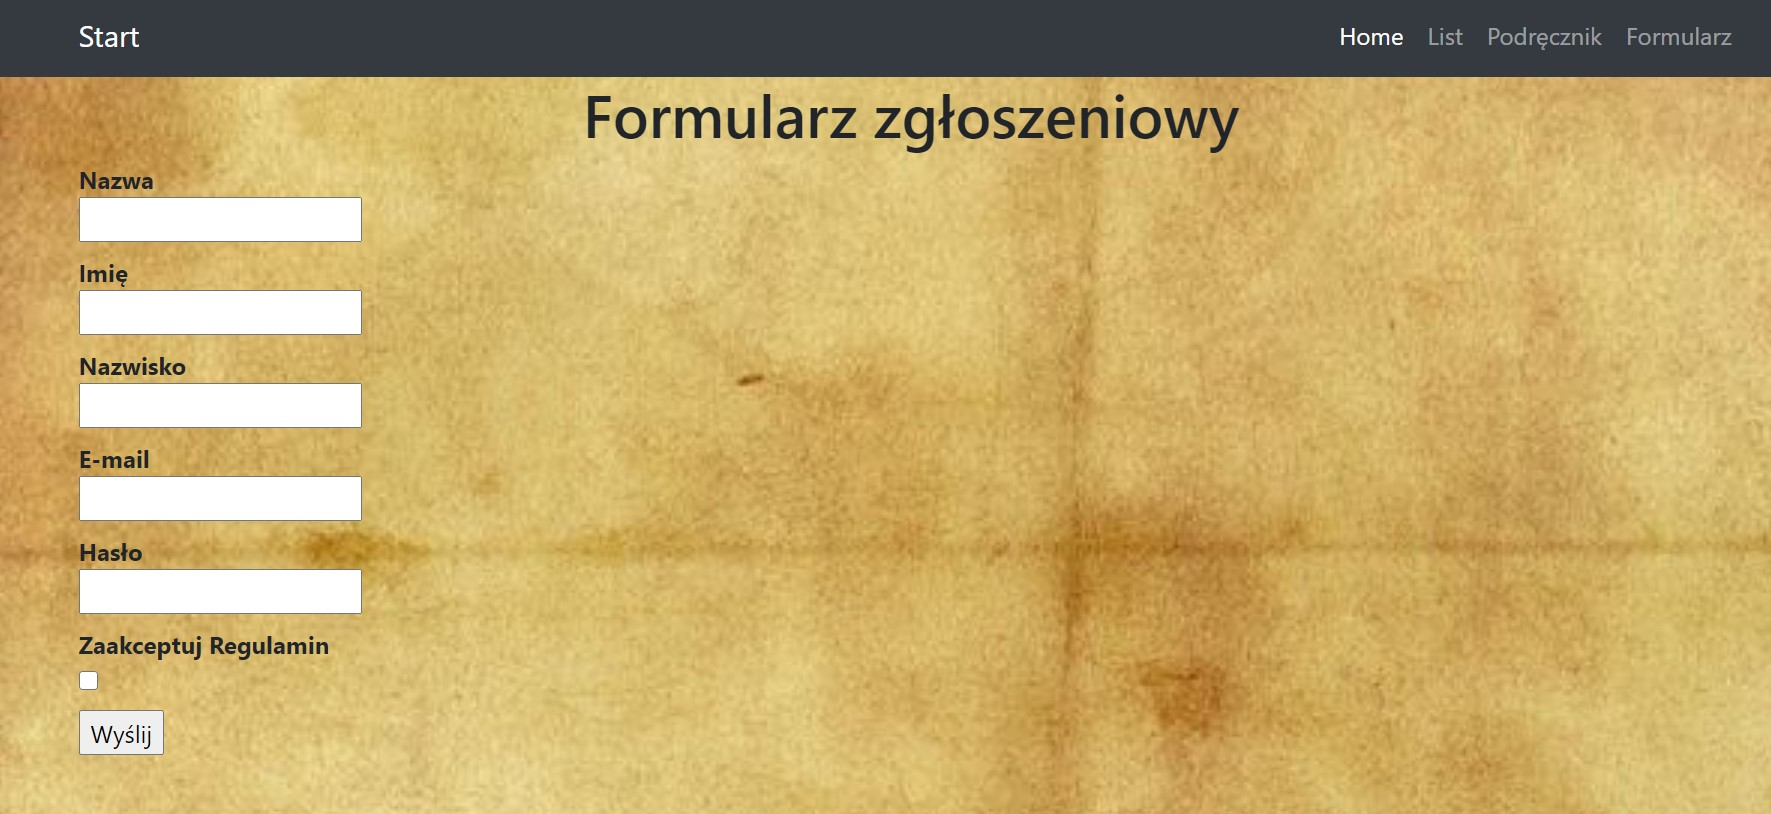
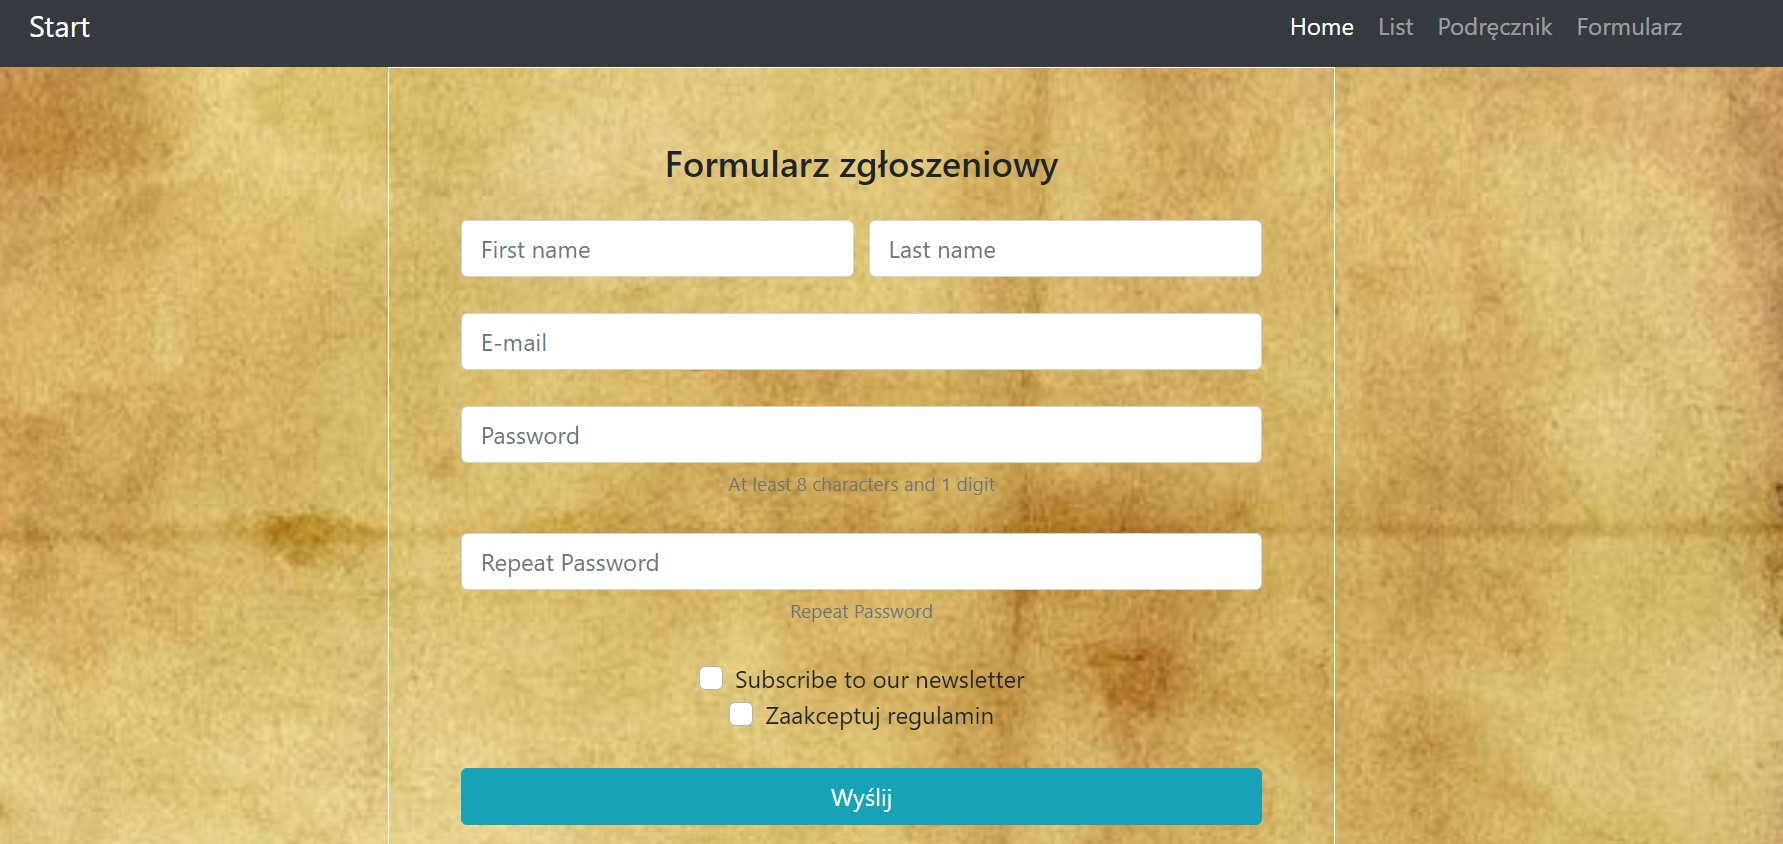
Upgrade Formularz.html
Stworzenie formularza z szablonu Bootstrap'a

diff --git a/Lab1/formularz.html b/Lab1/formularz.html
@@ -46,29 +46,65 @@
   </nav>
 
   <!-- Page Content -->
-  <form onsubmit="if (sprawdz(this)) return true; return false">
-    <div class="container">
-      <h1 id="Tytul">Formularz zgłoszeniowy</h1>
-      <dl>
-        <dt>Nazwa</dt>
-        <dd><input type="text" name="nazwa"></dd>
-        <dt>Imię</dt>
-        <dd><input type="text" name="imie"></dd>
-        <dt>Nazwisko</dt>
-        <dd><input type="text" name="nazwisko"></dd>
-        <dt>E-mail</dt>
-        <dd><input type="text" name="email"></dd>
-        <dt>Hasło</dt>
-        <dd><input type="password" name="haslo"></dd>
-        <dt>Zaakceptuj Regulamin</dt>
-        <dd><input type="checkbox" name="regulamin" id="regulamin"></dd>
-        <input type="submit" value="Wyślij">
-      </dl>
-    </div>
-  </form>
+  <!-- Default form register -->
+  <div id="formula">
+    <form onsubmit="if (sprawdz(this)) return true; return false" class="text-center border border-light p-5" action="#!">
+
+        <p class="h4 mb-4">Formularz zgłoszeniowy</p>
+
+        <div class="form-row mb-4">
+            <div class="col">
+                <!-- First name -->
+                <input type="text" id="defaultRegisterFormFirstName" class="form-control" placeholder="First name">
+            </div>
+            <div class="col">
+                <!-- Last name -->
+                <input type="text" id="defaultRegisterFormLastName" class="form-control" placeholder="Last name">
+            </div>
+        </div>
+
+        <!-- E-mail -->
+        <input type="email" id="defaultRegisterFormEmail" class="form-control mb-4" placeholder="E-mail">
+
+        <!-- Password -->
+        <input type="password" id="defaultRegisterFormPassword" class="form-control" placeholder="Password" aria-describedby="defaultRegisterFormPasswordHelpBlock">
+        <small id="defaultRegisterFormPasswordHelpBlock" class="form-text text-muted mb-4">
+            At least 8 characters and 1 digit
+        </small>
+
+        <!-- Password repeat -->
+        <input type="password" id="defaultRegisterFormRepeatPassword" class="form-control" placeholder="Repeat Password" aria-describedby="defaultRegisterFormPasswordHelpBlock">
+        <small id="defaultRegisterFormPasswordHelpBlock" class="form-text text-muted mb-4">
+            Repeat Password
+        </small>
+
+        <!-- Newsletter -->
+        <div class="custom-control custom-checkbox move-left">
+            <input type="checkbox" class="custom-control-input" id="defaultRegisterFormNewsletter">
+            <label class="custom-control-label" for="defaultRegisterFormNewsletter">Subscribe to our newsletter</label>
+        </div>
+
+        <div></div>
+
+        <!-- Terms -->
+        <div class="custom-control custom-checkbox">
+          <input type="checkbox" class="custom-control-input" id="regulamin">
+          <label class="custom-control-label" for="regulamin">Zaakceptuj regulamin</label>
+        </div>
+
+        <!-- Sign up button -->
+        <button class="btn btn-info my-4 btn-block" type="submit">Wyślij</button>
+
+        <hr>
+
+    </form>
+</div>
+<!-- Default form register -->
+
   <!-- Bootstrap core JavaScript -->
   <script src="vendor/jquery/jquery.slim.min.js"></script>
   <script src="vendor/bootstrap/js/bootstrap.bundle.min.js"></script>
+  <!-- My scripts -->
   <script src="Assets/Script/formularz.js"></script>
 
 </body>

diff --git a/Lab1/oldForm.html b/Lab1/oldForm.html
@@ -1,0 +1,77 @@
+<!DOCTYPE html>
+<html lang="pl">
+
+<head>
+
+  <meta charset="utf-8">
+  <meta name="viewport" content="width=device-width, initial-scale=1, shrink-to-fit=no">
+  <meta name="description" content="">
+  <meta name="author" content="">
+
+  <title>Laboratorium 1</title>
+
+  <!-- Bootstrap core CSS -->
+  <link href="vendor/bootstrap/css/bootstrap.min.css" rel="stylesheet">
+
+</head>
+
+<body style="background-image: url('Assets/Graphic/Pergamin.jpg');">
+
+  <!-- Navigation -->
+  <nav class="navbar navbar-expand-lg navbar-dark bg-dark static-top">
+    <div class="container">
+      <a class="navbar-brand" href="index.html">Start</a>
+      <button class="navbar-toggler" type="button" data-toggle="collapse" data-target="#navbarResponsive" aria-controls="navbarResponsive" aria-expanded="false" aria-label="Toggle navigation">
+        <span class="navbar-toggler-icon"></span>
+      </button>
+      <div class="collapse navbar-collapse" id="navbarResponsive">
+        <ul class="navbar-nav ml-auto">
+          <li class="nav-item active">
+            <a class="nav-link" href="index.html">Home
+              <span class="sr-only">(current)</span>
+            </a>
+          </li>
+          <li class="nav-item">
+            <a class="nav-link" href="list.html">List</a>
+          </li>
+          <li class="nav-item">
+            <a class="nav-link" href="podrecznik.html">Podręcznik</a>
+          </li>
+          <li class="nav-item">
+            <a class="nav-link" href="#">Formularz</a>
+          </li>
+        </ul>
+      </div>
+    </div>
+  </nav>
+
+  <!-- Page Content -->
+  <form onsubmit="if (sprawdz(this)) return true; return false">
+    <div class="container">
+      <h1 id="Tytul">Formularz zgłoszeniowy</h1>
+      <dl>
+        <dt>Nazwa</dt>
+        <dd><input type="text" name="nazwa"></dd>
+        <dt>Imię</dt>
+        <dd><input type="text" name="imie"></dd>
+        <dt>Nazwisko</dt>
+        <dd><input type="text" name="nazwisko"></dd>
+        <dt>E-mail</dt>
+        <dd><input type="text" name="email"></dd>
+        <dt>Hasło</dt>
+        <dd><input type="password" name="haslo"></dd>
+        <dt>Zaakceptuj Regulamin</dt>
+        <dd><input type="checkbox" name="regulamin" id="regulamin"></dd>
+        <input type="submit" value="Wyślij">
+      </dl>
+    </div>
+  </form>
+
+  <!-- Bootstrap core JavaScript -->
+  <script src="vendor/jquery/jquery.slim.min.js"></script>
+  <script src="vendor/bootstrap/js/bootstrap.bundle.min.js"></script>
+  <script src="Assets/Script/formularz.js"></script>
+
+</body>
+
+</html>

diff --git a/Lab1/Assets/Script/formularz.js b/Lab1/Assets/Script/formularz.js
@@ -1,6 +1,7 @@
-document.getElementById("Tytul").style.textAlign="Center";
-
 document.getElementsByTagName("body")[0].style.backgroundSize="100%";
+
+document.getElementById("formula").style.marginRight="25%";
+document.getElementById("formula").style.marginLeft="25%";
 
 function sprawdz(formularz)
 {
@@ -12,9 +13,16 @@ function sprawdz(formularz)
 			alert("Proszę wypełnić wszystkie pola!");
 			return false;
         }
-    }
+	}
+	
+	if(document.getElementById("defaultRegisterFormPassword").textContent != document.getElementById("defaultRegisterFormRepeatPassword").textContent){
+		alert("Proszę wprowadzić to samo hasło w obu miejscach");
+		return false;
+	}
+
     if(document.getElementById("regulamin").checked == false){
-        alert("Proszę zaakceptowac regulamin!");
+		alert("Proszę zaakceptowac regulamin!");
+		return false;
     }
     console.log("Poprawne wczytanie danych");
 	return true;
